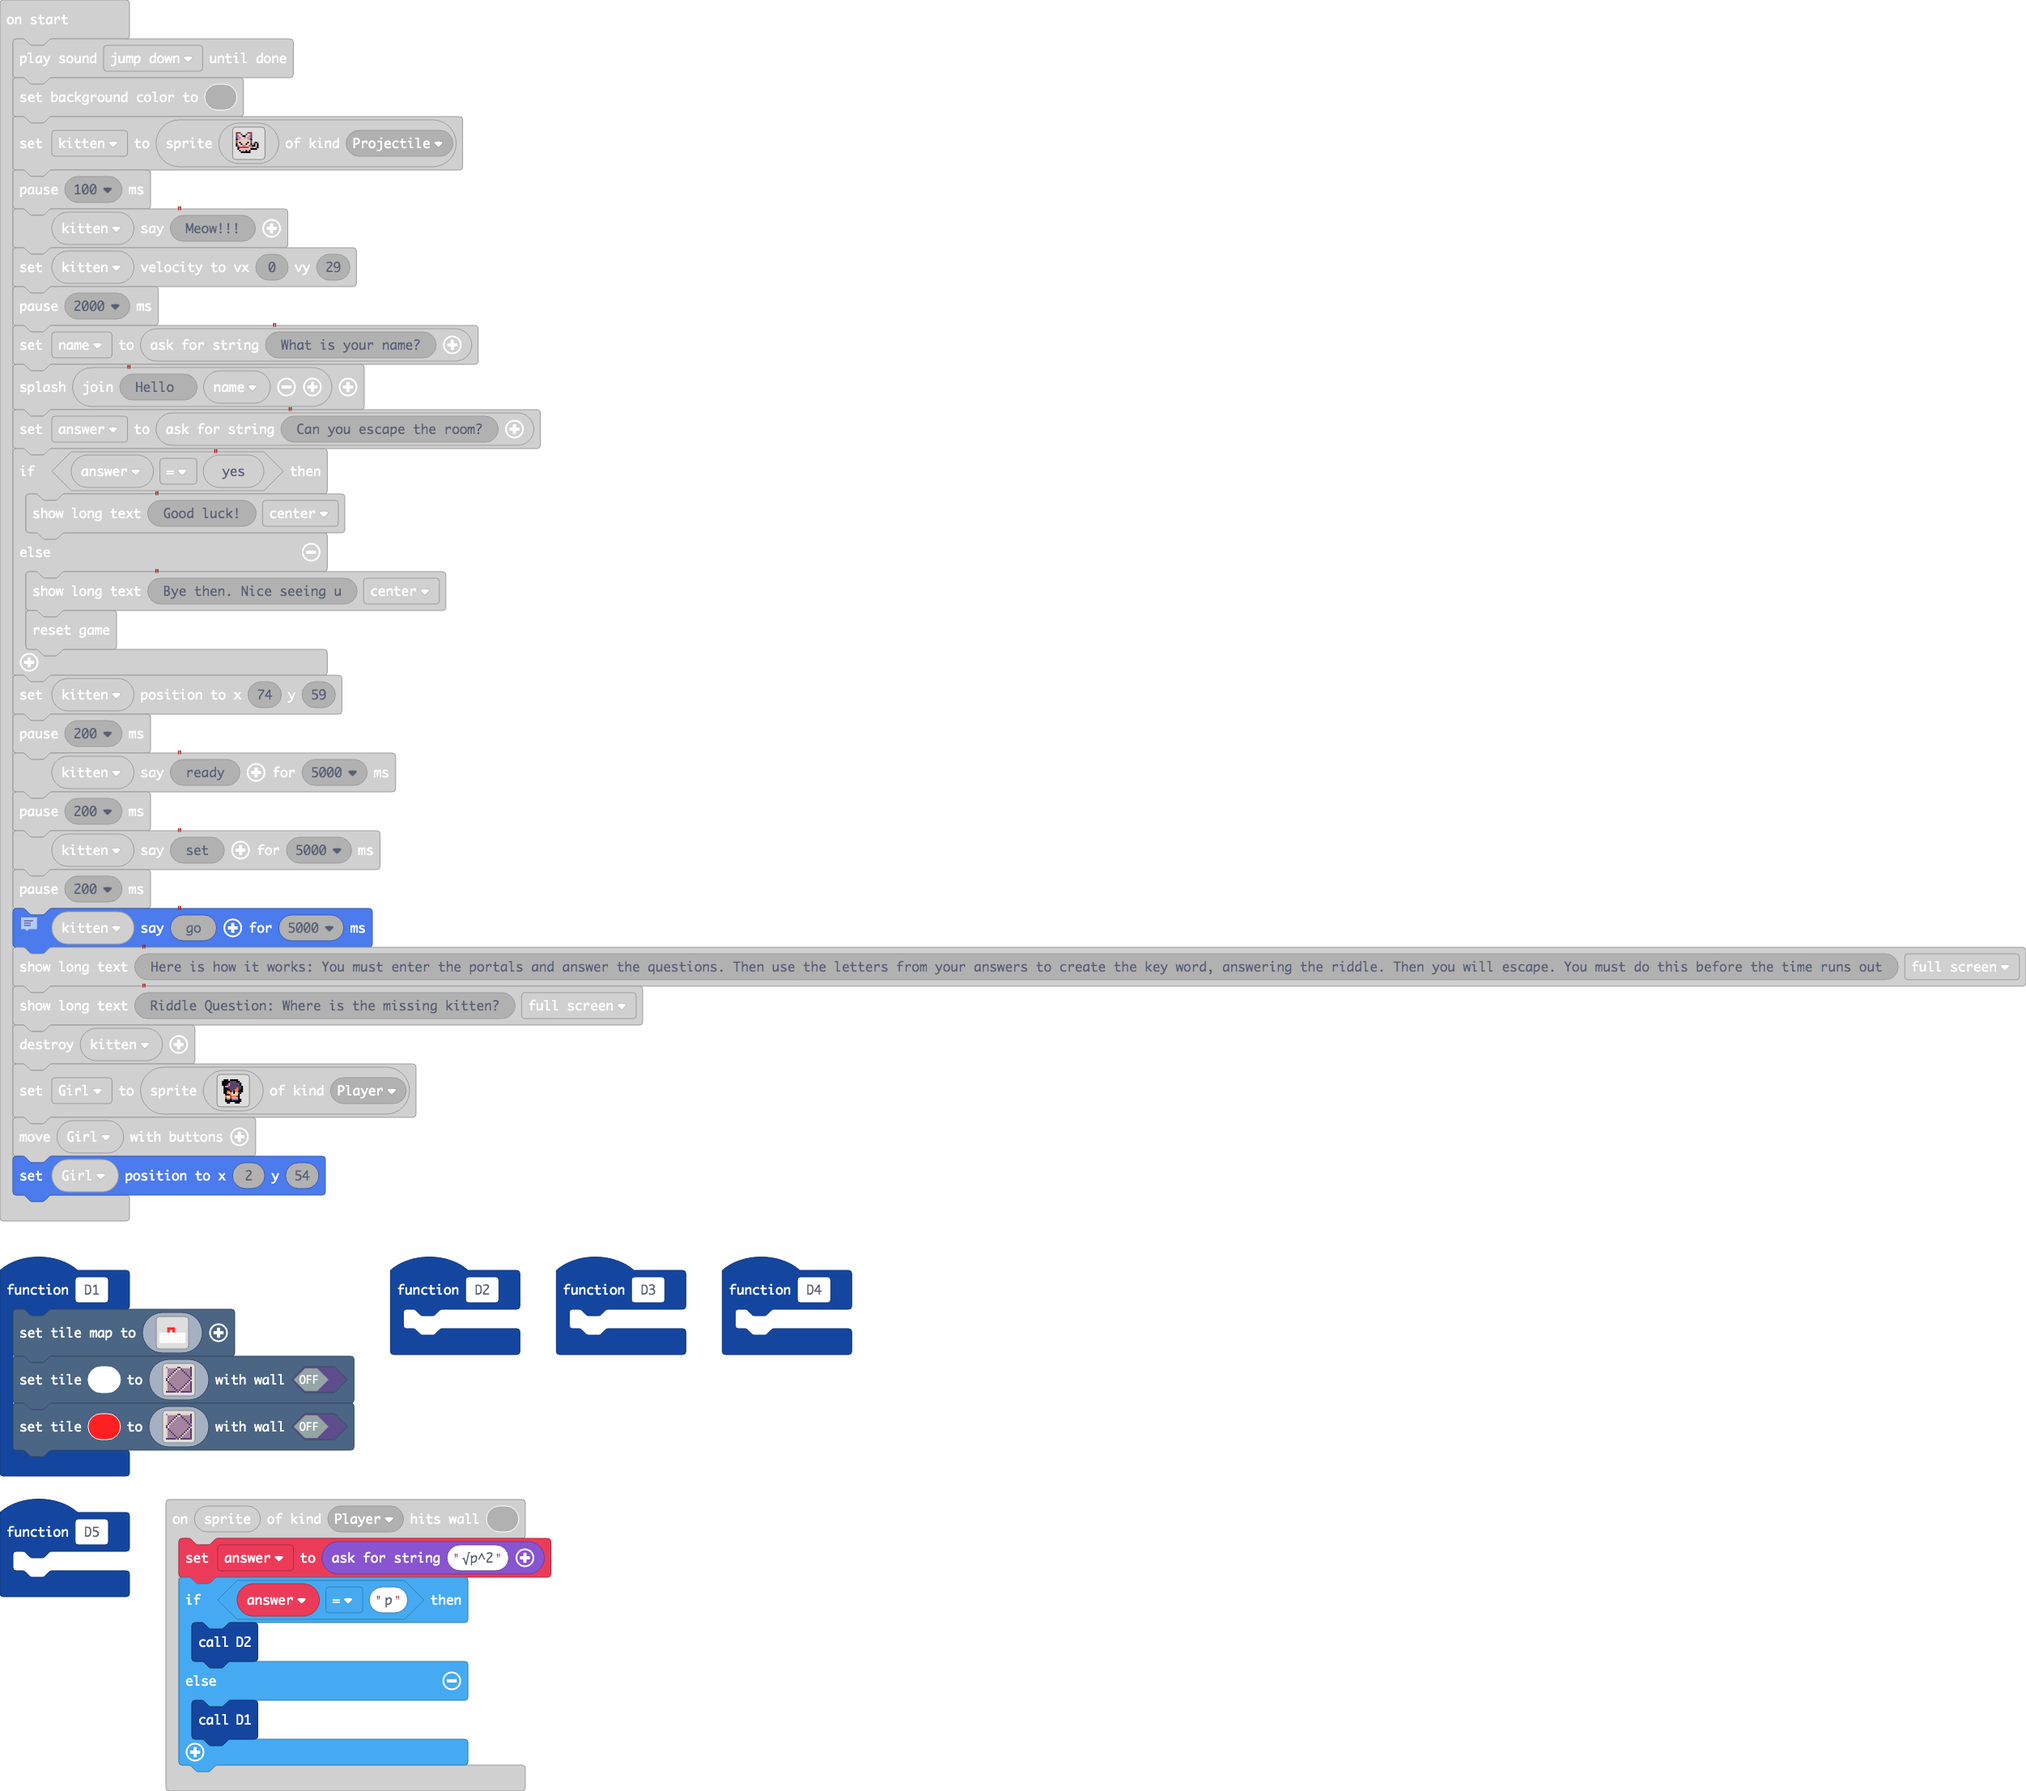
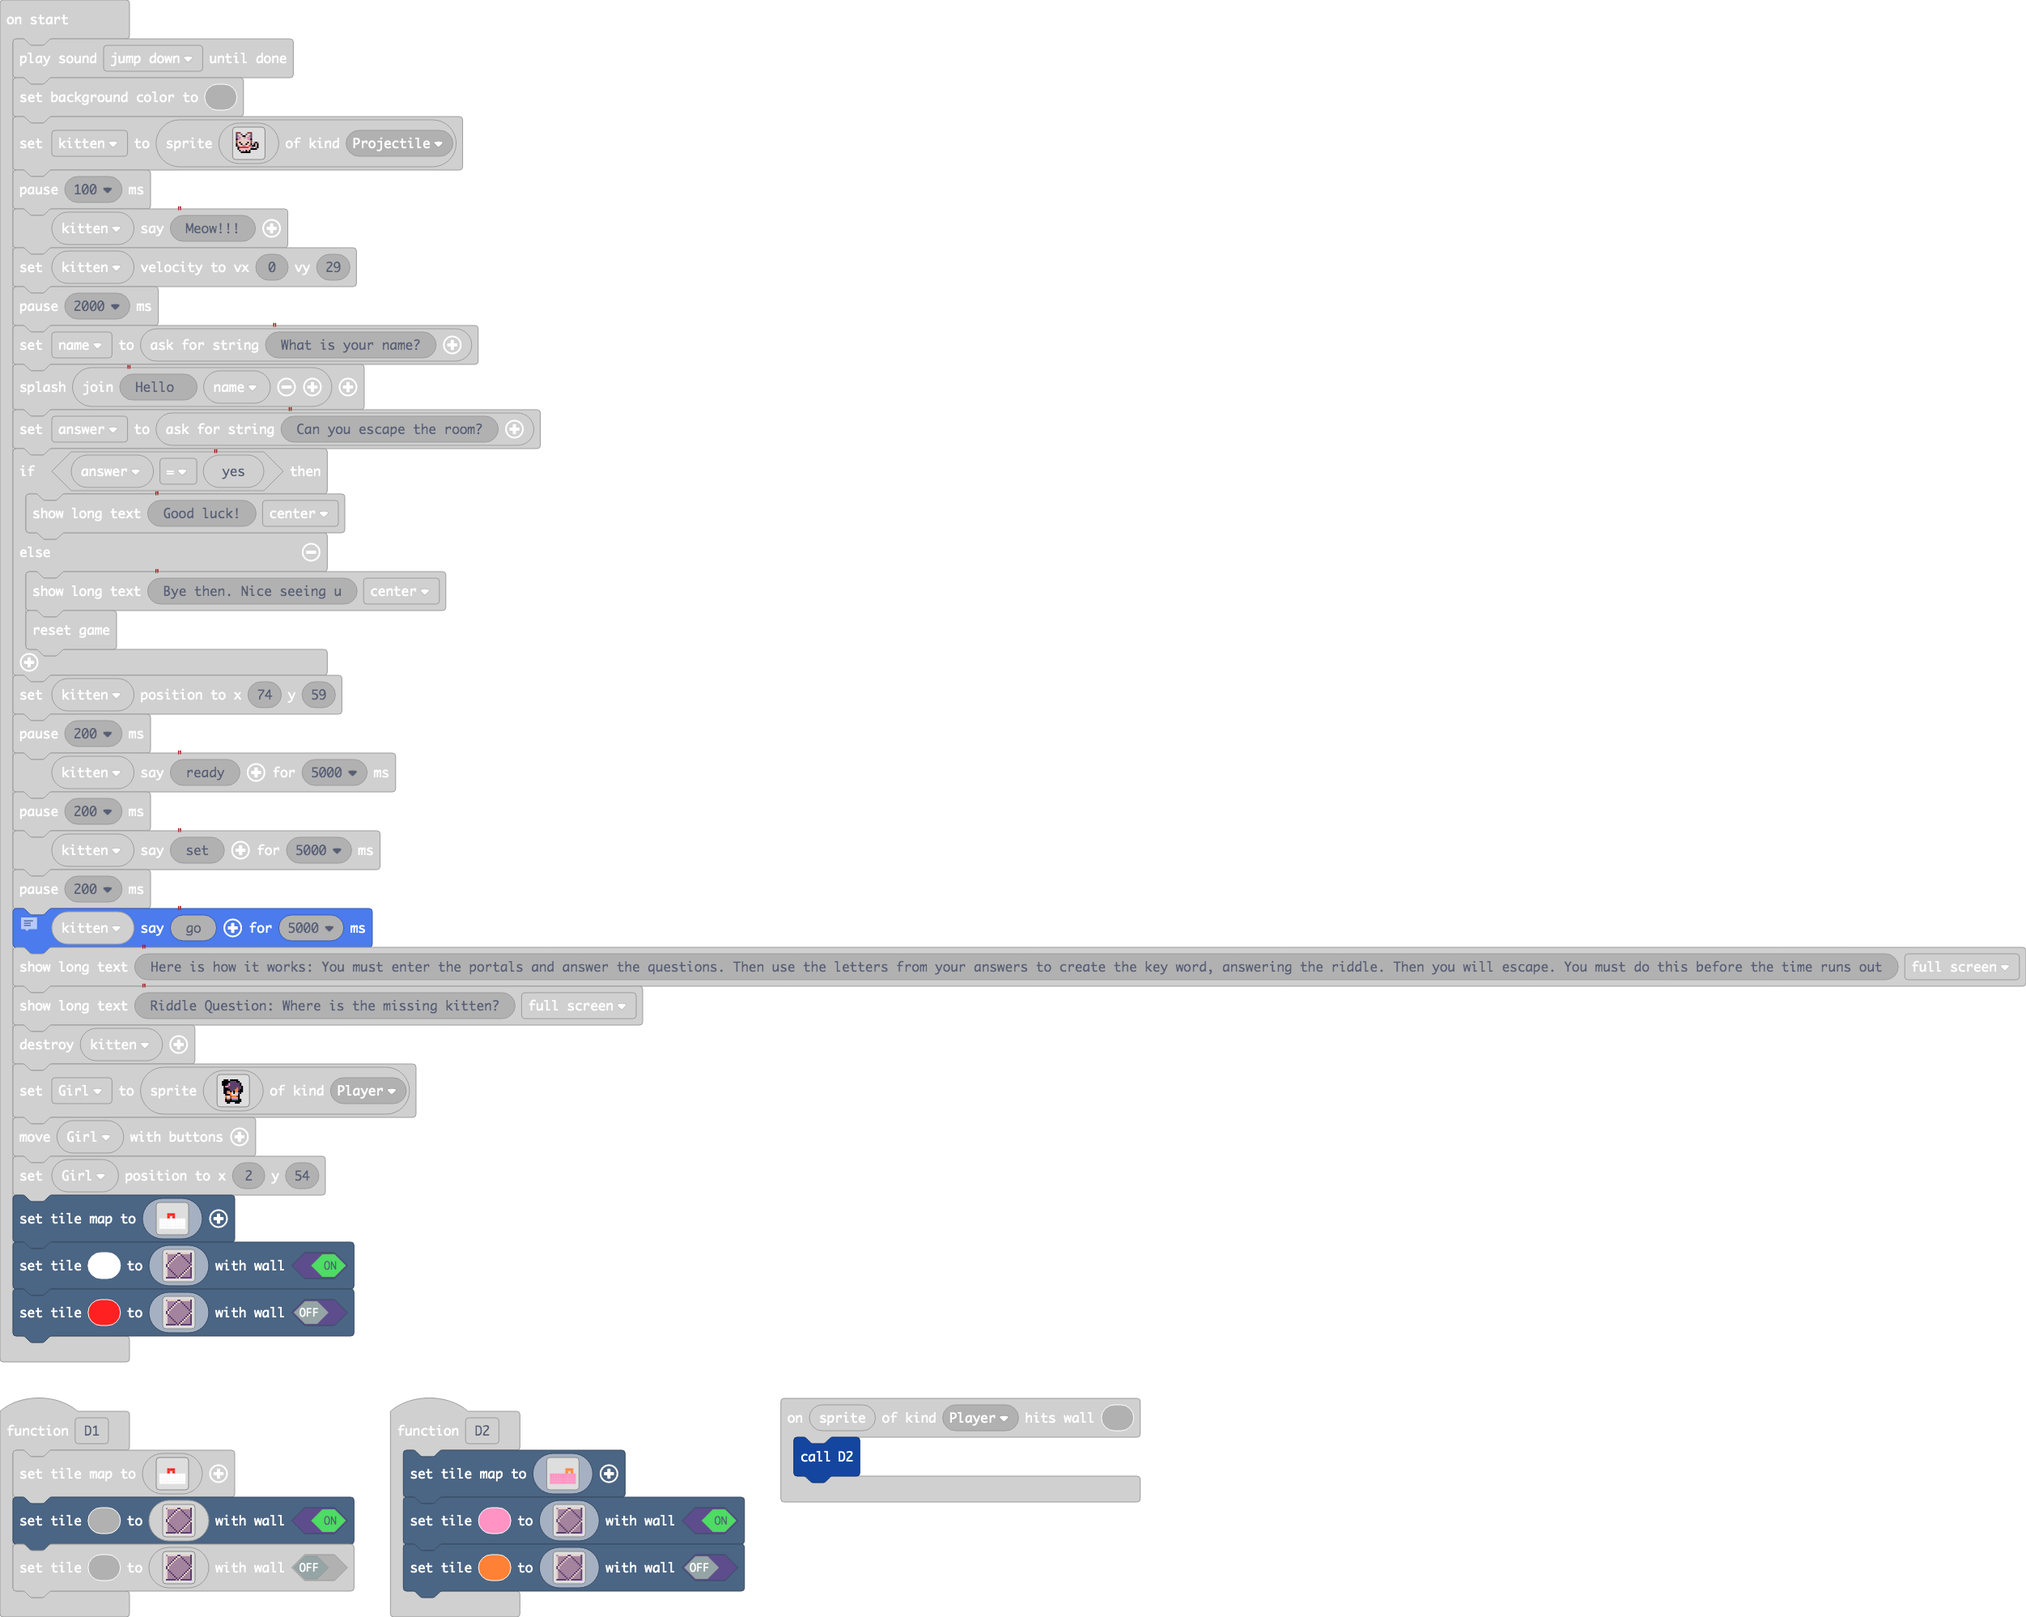
Update main.blocks, main.ts

Changed region(s): [[0.0, 0.0, 1.0, 1.0]]

diff --git a/main.ts b/main.ts
@@ -3,6 +3,12 @@ enum ActionKind {
     Idle,
     Jumping
 }
+function D3 () {
+	
+}
+function D4 () {
+	
+}
 function D1 () {
     scene.setTileMap(img`
 . . . . . . . . . . 
@@ -31,7 +37,7 @@ d b b b c b b b b b c d b b b c
 d b b b b c b b b c d b b b b c 
 d b b b b b c b c d b b b b b c 
 c c c c c c b c d c c c c c c a 
-`, false)
+`, true)
     scene.setTile(2, img`
 b d d d d d d c c d d d d d d c 
 d b b b b b c d d c b b b b b c 
@@ -52,26 +58,59 @@ c c c c c c b c d c c c c c c a
 `, false)
 }
 function D2 () {
-	
+    scene.setTileMap(img`
+. . . . . . . . . . 
+. . . . . . . . . . 
+. . . . . . 4 4 4 . 
+. . . . . . 4 . 4 . 
+3 3 3 3 3 3 3 3 3 3 
+3 3 3 3 3 3 3 3 3 3 
+3 3 3 3 3 3 3 3 3 3 
+3 3 3 3 3 3 3 3 3 3 
+`)
+    scene.setTile(3, img`
+b d d d d d d c c d d d d d d c 
+d b b b b b c d d c b b b b b c 
+d b b b b c d b b b c b b b b c 
+d b b b c d b b b b b c b b b c 
+d b b c d b b b b b b b c b b c 
+d b c d b b b b b b b b b c b c 
+d c d b b b b b b b b b b b c b 
+c d b b b b b b b b b b b b b c 
+c d b b b b b b b b b b b b c d 
+d c b b b b b b b b b b b c d c 
+d b c b b b b b b b b b c d b c 
+d b b c b b b b b b b c d b b c 
+d b b b c b b b b b c d b b b c 
+d b b b b c b b b c d b b b b c 
+d b b b b b c b c d b b b b b c 
+c c c c c c b c d c c c c c c a 
+`, true)
+    scene.setTile(4, img`
+b d d d d d d c c d d d d d d c 
+d b b b b b c d d c b b b b b c 
+d b b b b c d b b b c b b b b c 
+d b b b c d b b b b b c b b b c 
+d b b c d b b b b b b b c b b c 
+d b c d b b b b b b b b b c b c 
+d c d b b b b b b b b b b b c b 
+c d b b b b b b b b b b b b b c 
+c d b b b b b b b b b b b b c d 
+d c b b b b b b b b b b b c d c 
+d b c b b b b b b b b b c d b c 
+d b b c b b b b b b b c d b b c 
+d b b b c b b b b b c d b b b c 
+d b b b b c b b b c d b b b b c 
+d b b b b b c b c d b b b b b c 
+c c c c c c b c d c c c c c c a 
+`, false)
 }
-function D3 () {
-	
-}
-function D4 () {
-	
-}
+scene.onHitTile(SpriteKind.Player, 2, function (sprite) {
+    D2()
+})
 function D5 () {
 	
 }
-scene.onHitTile(SpriteKind.Player, 2, function (sprite) {
-    answer = game.askForString("√p^2")
-    if (answer == "p") {
-        D2()
-    } else {
-        D1()
-    }
-})
-let answer = ""
 music.jumpDown.playUntilDone()
 scene.setBackgroundColor(13)
 let kitten = sprites.create(img`
@@ -98,7 +137,7 @@ kitten.setVelocity(0, 29)
 pause(2000)
 let name = game.askForString("What is your name?")
 game.splash("Hello " + name)
-answer = game.askForString("Can you escape the room?")
+let answer = game.askForString("Can you escape the room?")
 if (answer == "yes") {
     game.showLongText("Good luck!", DialogLayout.Center)
 } else {
@@ -138,3 +177,49 @@ f f f c 3 c c c c c c f . .
 `, SpriteKind.Player)
 controller.moveSprite(Girl)
 Girl.setPosition(2, 54)
+scene.setTileMap(img`
+. . . . . . . . . . 
+. . . . . . . . . . 
+. . . 2 2 2 . . . . 
+. . . 2 . 2 . . . . 
+1 1 1 1 1 1 1 1 1 1 
+1 1 1 1 1 1 1 1 1 1 
+1 1 1 1 1 1 1 1 1 1 
+1 1 1 1 1 1 1 1 1 1 
+`)
+scene.setTile(1, img`
+b d d d d d d c c d d d d d d c 
+d b b b b b c d d c b b b b b c 
+d b b b b c d b b b c b b b b c 
+d b b b c d b b b b b c b b b c 
+d b b c d b b b b b b b c b b c 
+d b c d b b b b b b b b b c b c 
+d c d b b b b b b b b b b b c b 
+c d b b b b b b b b b b b b b c 
+c d b b b b b b b b b b b b c d 
+d c b b b b b b b b b b b c d c 
+d b c b b b b b b b b b c d b c 
+d b b c b b b b b b b c d b b c 
+d b b b c b b b b b c d b b b c 
+d b b b b c b b b c d b b b b c 
+d b b b b b c b c d b b b b b c 
+c c c c c c b c d c c c c c c a 
+`, true)
+scene.setTile(2, img`
+b d d d d d d c c d d d d d d c 
+d b b b b b c d d c b b b b b c 
+d b b b b c d b b b c b b b b c 
+d b b b c d b b b b b c b b b c 
+d b b c d b b b b b b b c b b c 
+d b c d b b b b b b b b b c b c 
+d c d b b b b b b b b b b b c b 
+c d b b b b b b b b b b b b b c 
+c d b b b b b b b b b b b b c d 
+d c b b b b b b b b b b b c d c 
+d b c b b b b b b b b b c d b c 
+d b b c b b b b b b b c d b b c 
+d b b b c b b b b b c d b b b c 
+d b b b b c b b b c d b b b b c 
+d b b b b b c b c d b b b b b c 
+c c c c c c b c d c c c c c c a 
+`, false)
